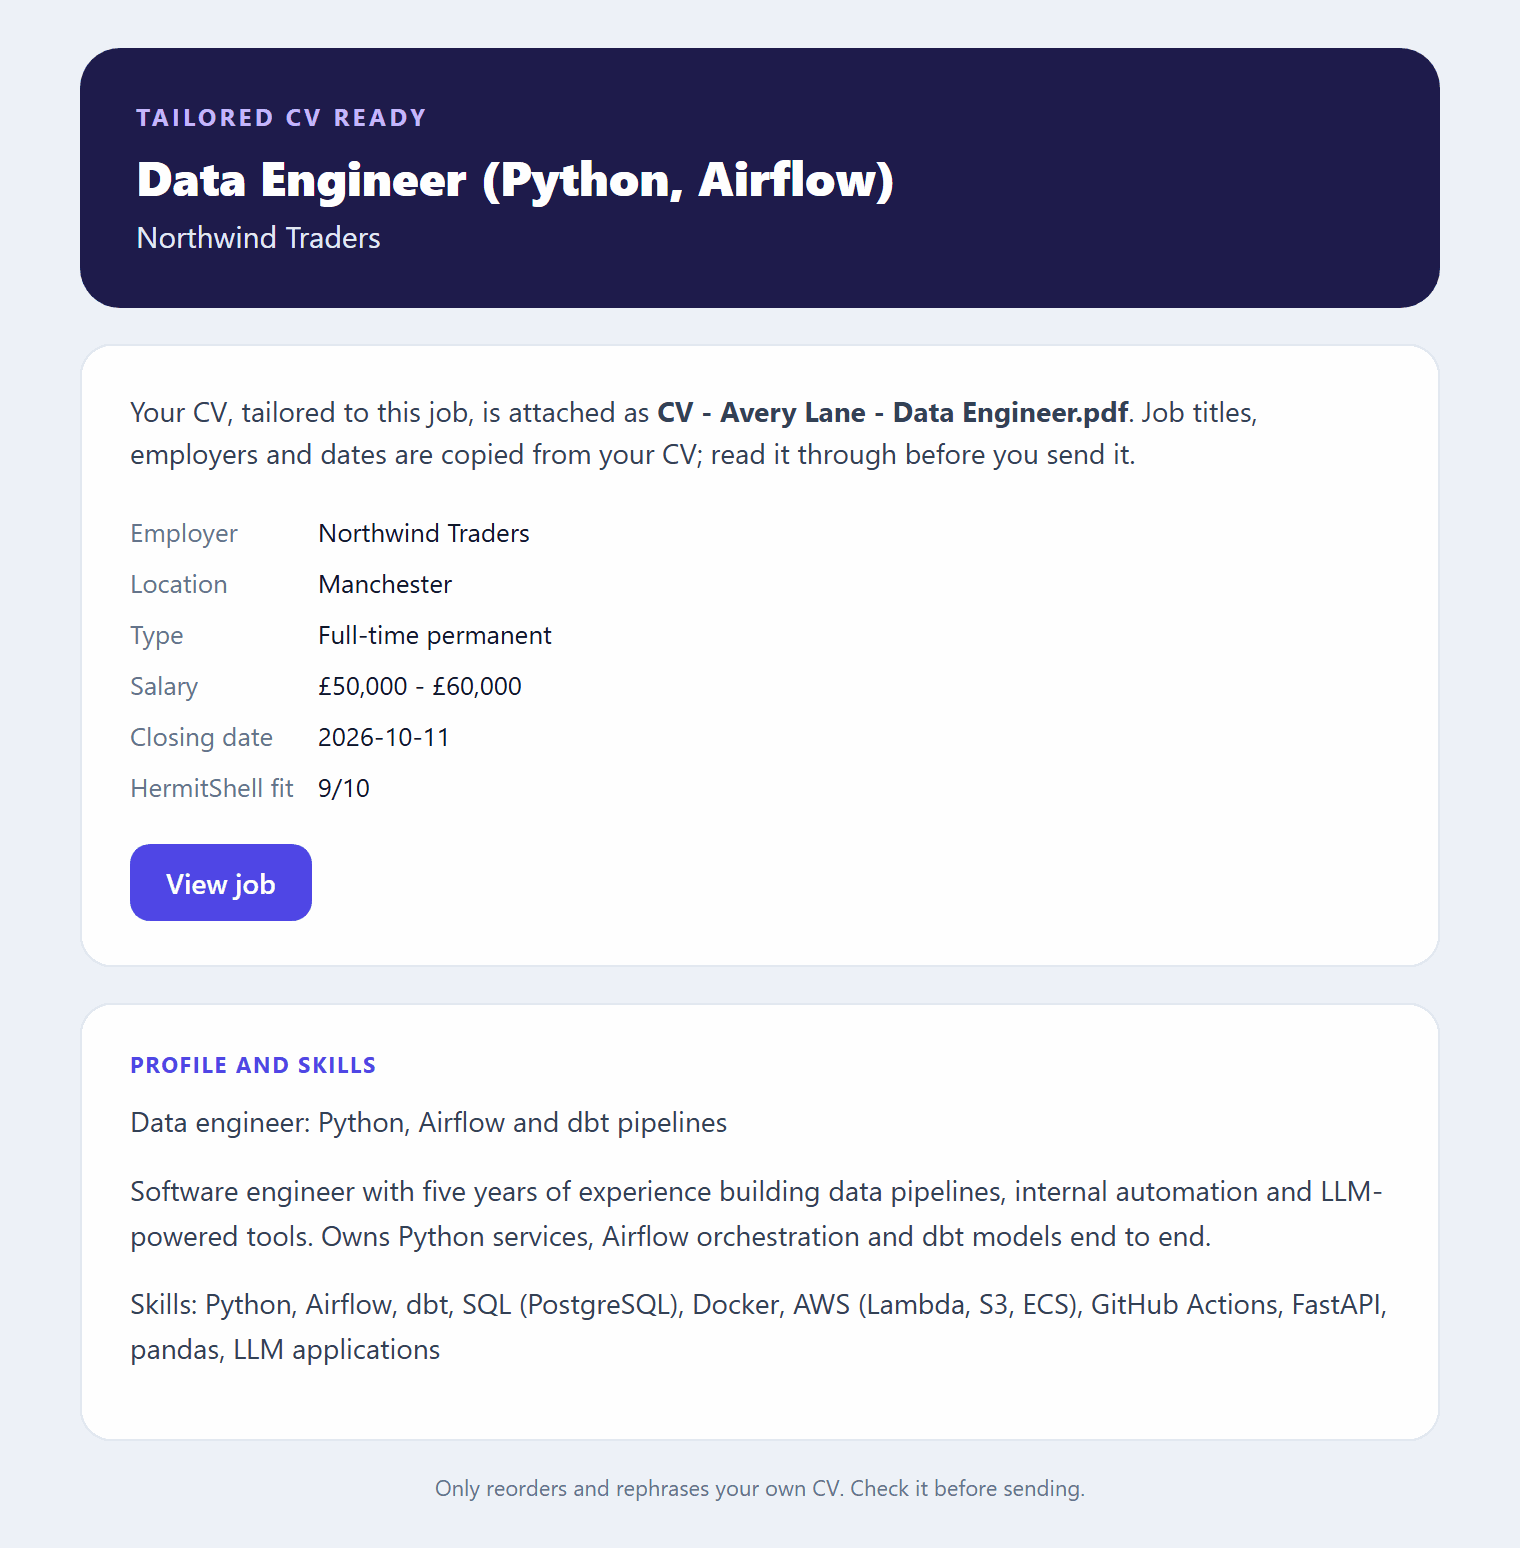
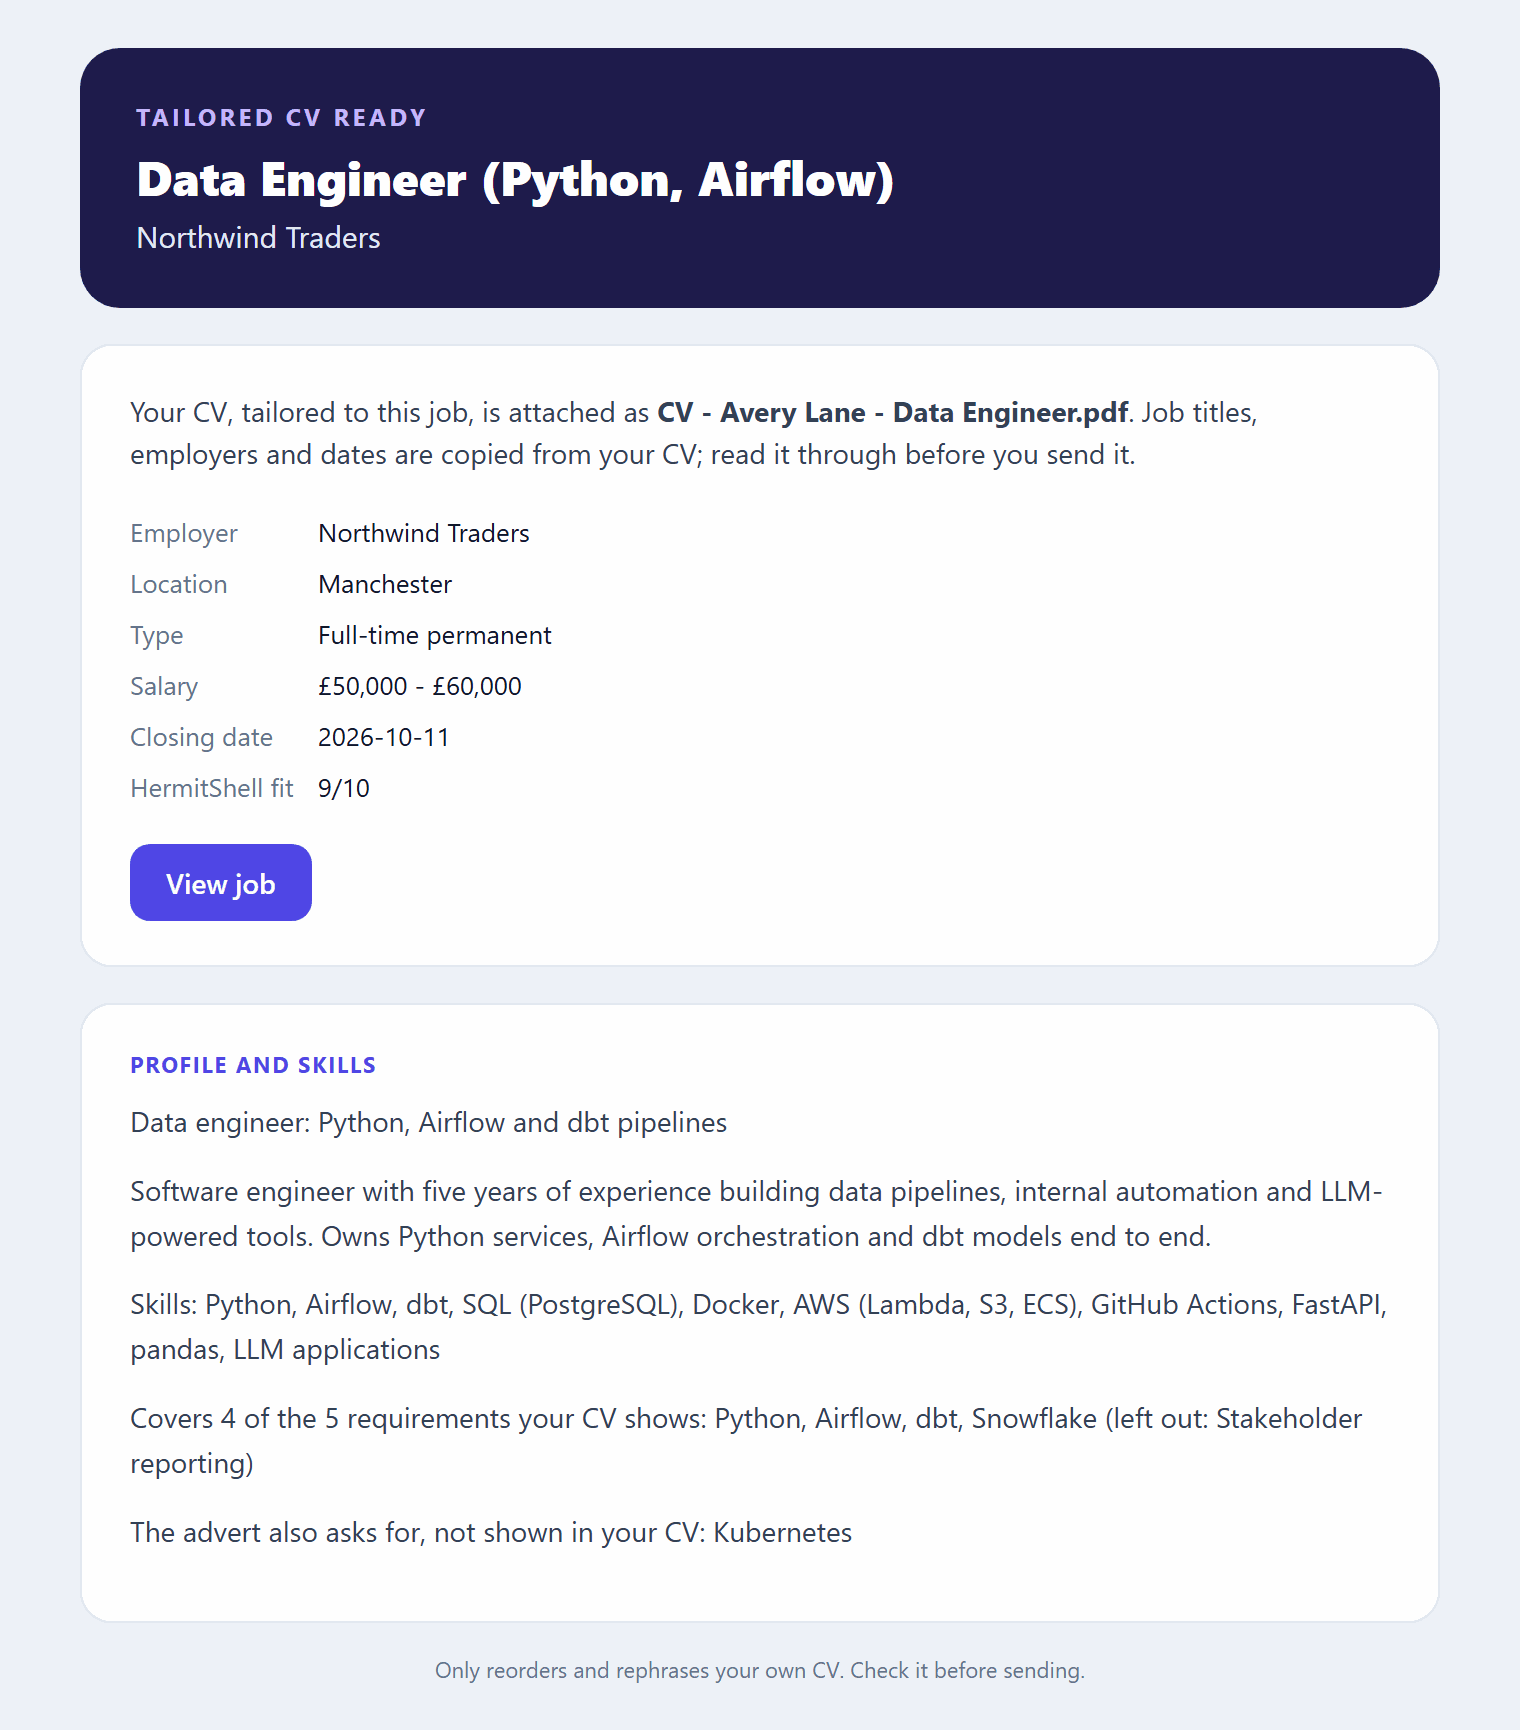
Docs: tailored CVs, match report screenshot and changelog

diff --git a/scripts/screenshots/make.py b/scripts/screenshots/make.py
@@ -205,6 +205,7 @@ def email_page(inner_rows: str) -> str:
 def render_emails(out: Path) -> dict[str, str]:
     import cover_letter
     import job_mail
+    import tailored_cv
     import job_scanner as js
     import job_weekly
     import profiles
@@ -256,7 +257,8 @@ def render_emails(out: Path) -> dict[str, str]:
     letter_job = {**top[0], "closing": "2026-10-11"}
     filename = "Cover letter - Avery Lane - Data Engineer (Python, Airflow).pdf"
     pages["cover-letter"] = cover_letter.email_bodies(letter_job, LETTER, filename, "Mention my Airflow migration")[1]
-    preview = [CV["headline"], CV["summary"], "Skills: " + ", ".join(CV["skills"])]
+    preview = [CV["headline"], CV["summary"], "Skills: " + ", ".join(CV["skills"]), *tailored_cv.report_lines(
+        {"covered": ["Python", "Airflow", "dbt", "Snowflake"], "missing": ["Stakeholder reporting"], "gaps": ["Kubernetes"]})]
     pages["tailored-cv"] = cover_letter.email_bodies(letter_job, preview, "CV - Avery Lane - Data Engineer.pdf", "",
                                                      kind="tailored_cv")[1]
     pages["job-email"] = job_mail.job_email(letter_job["key"], letter_job,

diff --git a/docs/configuration.md b/docs/configuration.md
@@ -160,6 +160,24 @@ Lengths and tones, from the request or `cover_letter.py --length/--tone`:
 
 Tones: professional (default), warm, direct and formal.
 
+### Tailored CVs
+
+The CV is read into a structured copy once (`state/cv.json`, `tailored_cv.py`) and rebuilt when it changes.
+One request reads up to 14,000 characters; a longer CV is read in sections split between paragraphs (at
+most 4, up to 42,000 characters) and the parts merged, a role split across two sections kept once with all
+its bullets, instead of being cut off.
+
+For each job the tailoring request gets the job's evidence map (the one the cover letter uses, from the
+same cache) and the first 2,500 characters of the advert. The model picks and rephrases; the code then:
+
+- keeps only skills the CV lists, and bullets with no figure the CV doesn't have (a role's own bullets
+  replace any it refuses);
+- orders a role's own bullets, where the model gave none, by how many of the job's requirements they name;
+- cuts the bullets to about two A4 pages: 6, 5, 4 and 3 for the four newest roles, 2 for older ones, and
+  650 words in all, always keeping each role's first bullet;
+- reports which requirements the CV shows are covered, which were left out, and what the advert asks for
+  that the CV doesn't show, at the end of the email.
+
 ### Testing prompts and models
 
 `scripts/llm_bench.py` runs HermitShell's real prompts on the configured models with made-up CVs and

diff --git a/docs/feedback-worker.md b/docs/feedback-worker.md
@@ -256,8 +256,12 @@ Cover letter button ──> Worker (confirm) ──> KV ──> cover_letter.py 
 <img src="images/emails/cover-letter.png" alt="Cover letter email" width="360"> <img src="images/emails/cover-letter-pdf.png" alt="Cover letter PDF" width="300">
 
 **Tailored CV** follows the same path: `cover_letter.py` asks the model to reorder and reword your
-CV for the job (titles, employers and dates are copied, never invented) and emails it as a PDF
-([email](images/emails/tailored-cv.png), [PDF](images/emails/tailored-cv-pdf.png)).
+CV for the job (titles, employers and dates are copied, never invented), led by the same evidence map as
+the letter, and emails it as a PDF ([email](images/emails/tailored-cv.png),
+[PDF](images/emails/tailored-cv-pdf.png)). Bullets that name what the job asks for come first, each
+starting with an action verb, cut to about two pages. The email ends with a match report: how many of the
+requirements your CV shows the tailored CV covers, and what the advert asks for that your CV doesn't show
+([Tailored CVs](configuration.md#tailored-cvs)).
 
 The letter and CV are written on your HermitShell server; the Worker sees the job key and your note,
 and afterwards keeps the finished PDF for download (below). Failed attempts are retried on the next

diff --git a/CHANGELOG.md b/CHANGELOG.md
@@ -8,6 +8,13 @@ using [Semantic Versioning](https://semver.org/).
 
 ### Added
 
+- **A match report with each tailored CV.** The email lists how many of the requirements your CV shows
+  the tailored CV covers, any it left out, and what the advert asks for that your CV doesn't show.
+- **Tailored CVs led by the evidence map.** The CV uses the cover letter's evidence map (the same cache)
+  and less of the advert; bullets that name the job's requirements come first and start with an action
+  verb, and the bullets are cut to about two pages. See [Tailored CVs](docs/configuration.md#tailored-cvs).
+- **Long CVs read in full.** A CV over 14,000 characters is read in up to 4 sections and merged, instead
+  of being cut off.
 - **Cover letter length and tone.** The cover letter's confirmation page, and a new **Options** pop-over
   beside **Generate** and **Regenerate** on the dashboard's jobs sent, choose a length (short, standard or
   detailed: 3, 4 or 5 paragraphs) and a tone (professional, warm, direct or formal). They reach HermitShell
